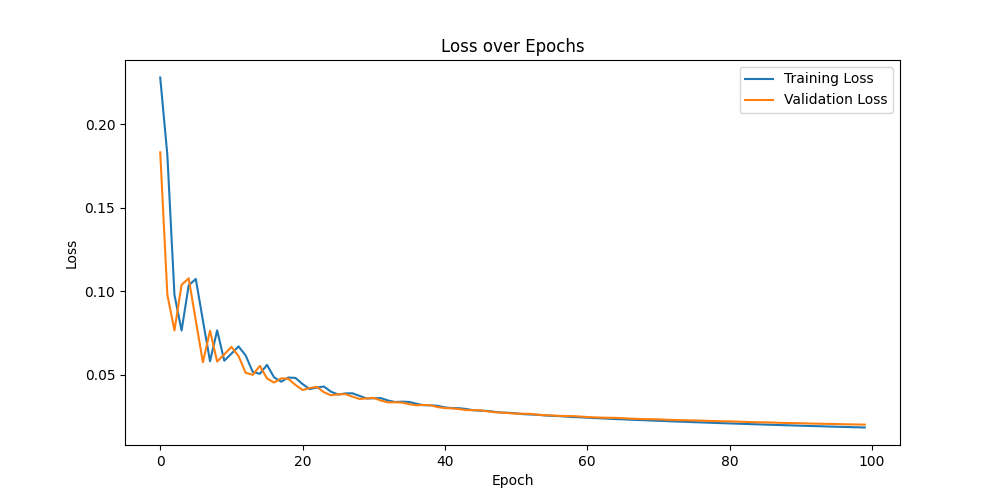
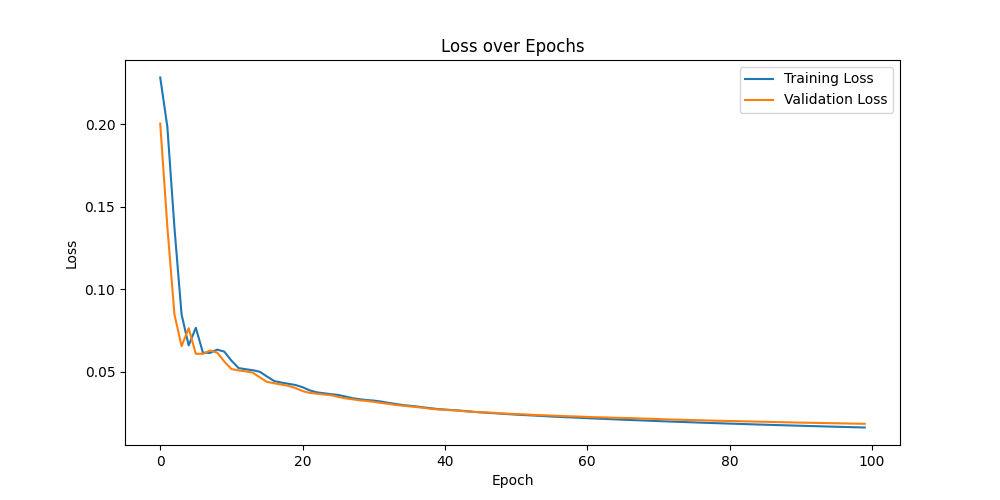
TRAIN gpt2 and bart with reduced dimensionalities

diff --git a/strucutural-probe/src/train.py b/strucutural-probe/src/train.py
@@ -43,10 +43,10 @@ def load_or_generate_embeddings(
         return data_prep.prepare_data(pd.read_csv(data_path))
 
 def initialize_model(embedding_dim: int) -> Tuple[nn.Module, nn.Module, optim.Optimizer, optim.lr_scheduler._LRScheduler]:
-    model = LinearTransformation(embedding_dim, 64) # choose the model here
-    #model = OrthogonalLayer(embedding_dim)
+    #model = LinearTransformation(embedding_dim, embedding_dim) # choose the model here
+    model = OrthogonalLayer(embedding_dim)
     loss_function = nn.MSELoss()
-    optimizer = optim.AdamW(model.parameters(), lr=0.001, weight_decay=0.005)
+    optimizer = optim.AdamW(model.parameters(), lr=0.006, weight_decay=0.005)
     scheduler = ReduceLROnPlateau(optimizer, mode='min', factor=0.1, patience=5)
     return model, loss_function, optimizer, scheduler
 
@@ -130,7 +130,7 @@ def main() -> None:
             best_val_loss = val_loss
             patience_counter = 0
             torch.save(
-                {'model_class': LinearTransformation,
+                {'model_class': OrthogonalLayer,
                  'state_dict': model.state_dict()
                 }, config['model_paths']['saved_model_full_dim'])
         else:

diff --git a/strucutural-probe/src/config.py b/strucutural-probe/src/config.py
@@ -1,5 +1,5 @@
 config = {
-    'model_name': 'bert-base-uncased', # bert-base-uncased, openai-community/gpt2, facebook/bart-base
+    'model_name': 'facebook/bart-base', # bert-base-uncased, openai-community/gpt2, facebook/bart-base
     'embedding_dim': 768,
     'hidden_dim': 512,
     'rbf_features': 100,
@@ -18,8 +18,8 @@ config = {
     'data_paths': {
         'train_data': './../../data/dataset/wikidata5m_42k_train.csv',
         'val_data': './../../data/dataset/wikidata5m_42k_valid.csv',
-        'train_embeddings': './../../data/embeddings/wikidata5m_42k_train_embeddings_bert.pt',
-        'val_embeddings': './../../data/embeddings/wikidata5m_42k_valid_embeddings_bert.pt',
+        'train_embeddings': './../../data/embeddings/wikidata5m_42k_train_embeddings_bart.pt',
+        'val_embeddings': './../../data/embeddings/wikidata5m_42k_valid_embeddings_bart.pt',
     },
     'model_paths': {
         'saved_model_full_dim': './../../trained_models/full_dim/best_model.pth',

diff --git a/strucutural-probe/src/evaluate.py b/strucutural-probe/src/evaluate.py
@@ -80,8 +80,8 @@ class Evaluator:
 if __name__ == "__main__":
 
     evaluator = Evaluator(
-        embeddings_path='./../../data/embeddings/wikidata5m_42k_test_embeddings_bert.pt',
+        embeddings_path='./../../data/embeddings/wikidata5m_42k_test_embeddings_bart.pt',
         test_data_path='./../../data/dataset/wikidata5m_42k_test.csv',
-        trained_model_path='./../../trained_models/reduced_dim/bert/best_model_dim_512_avg.pth'
+        trained_model_path='./../../trained_models/reduced_dim/bart/best_model_dim_512.pth'
     )
     evaluator.run_evaluation()
